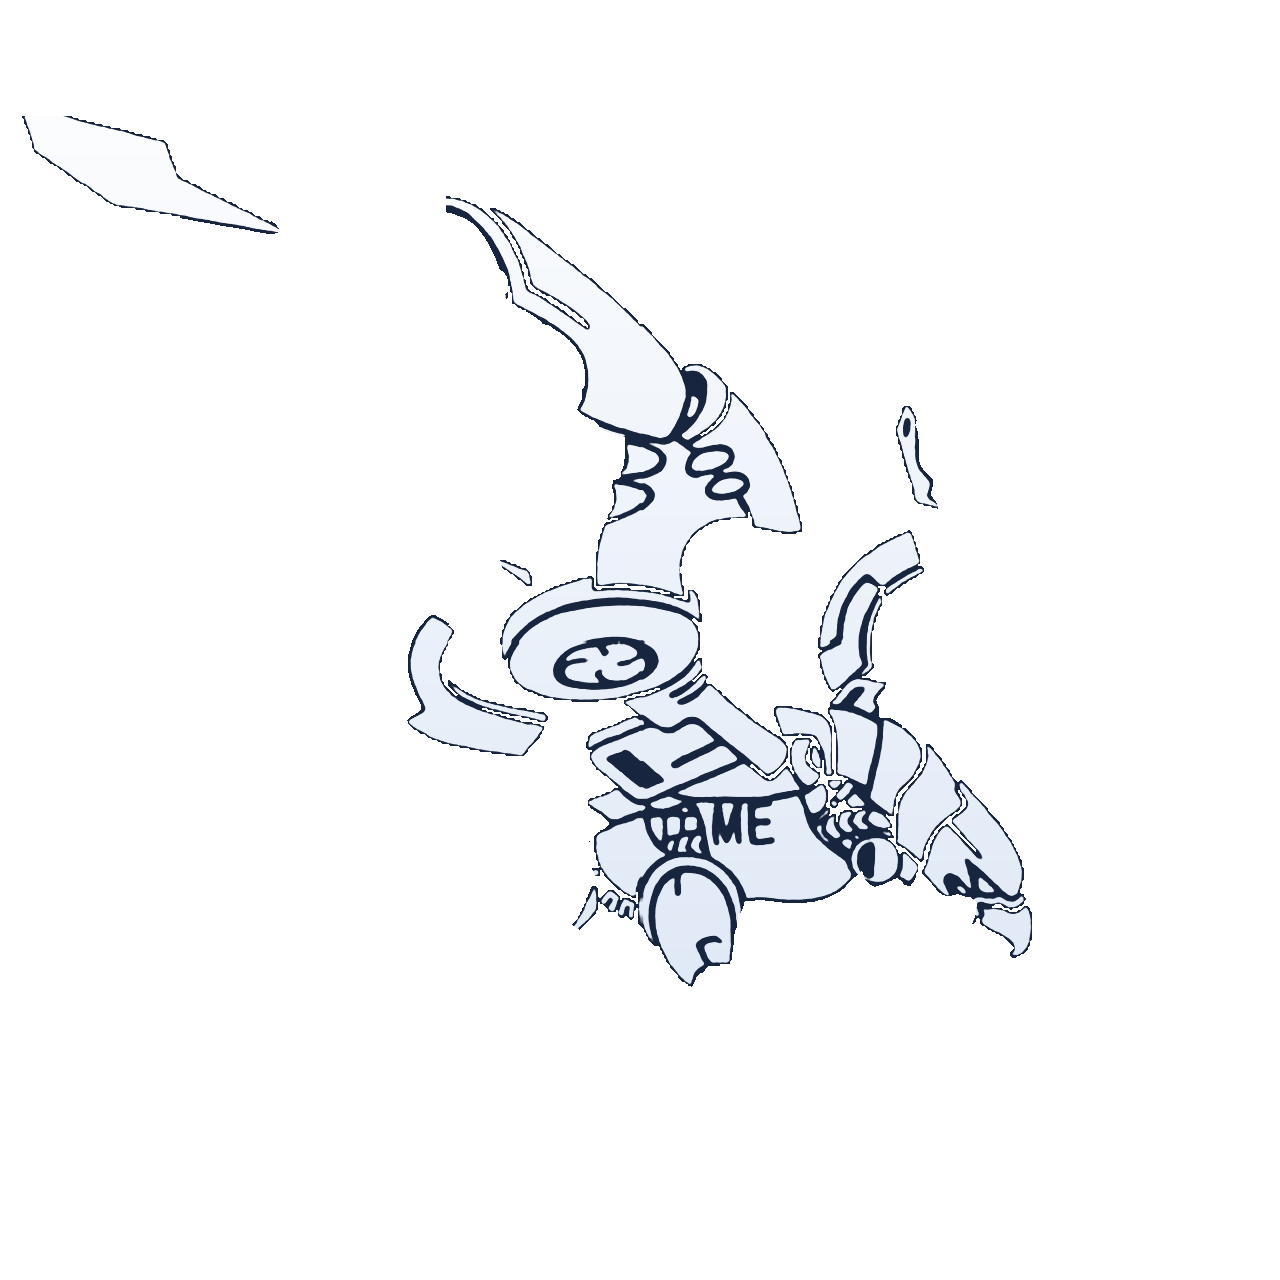
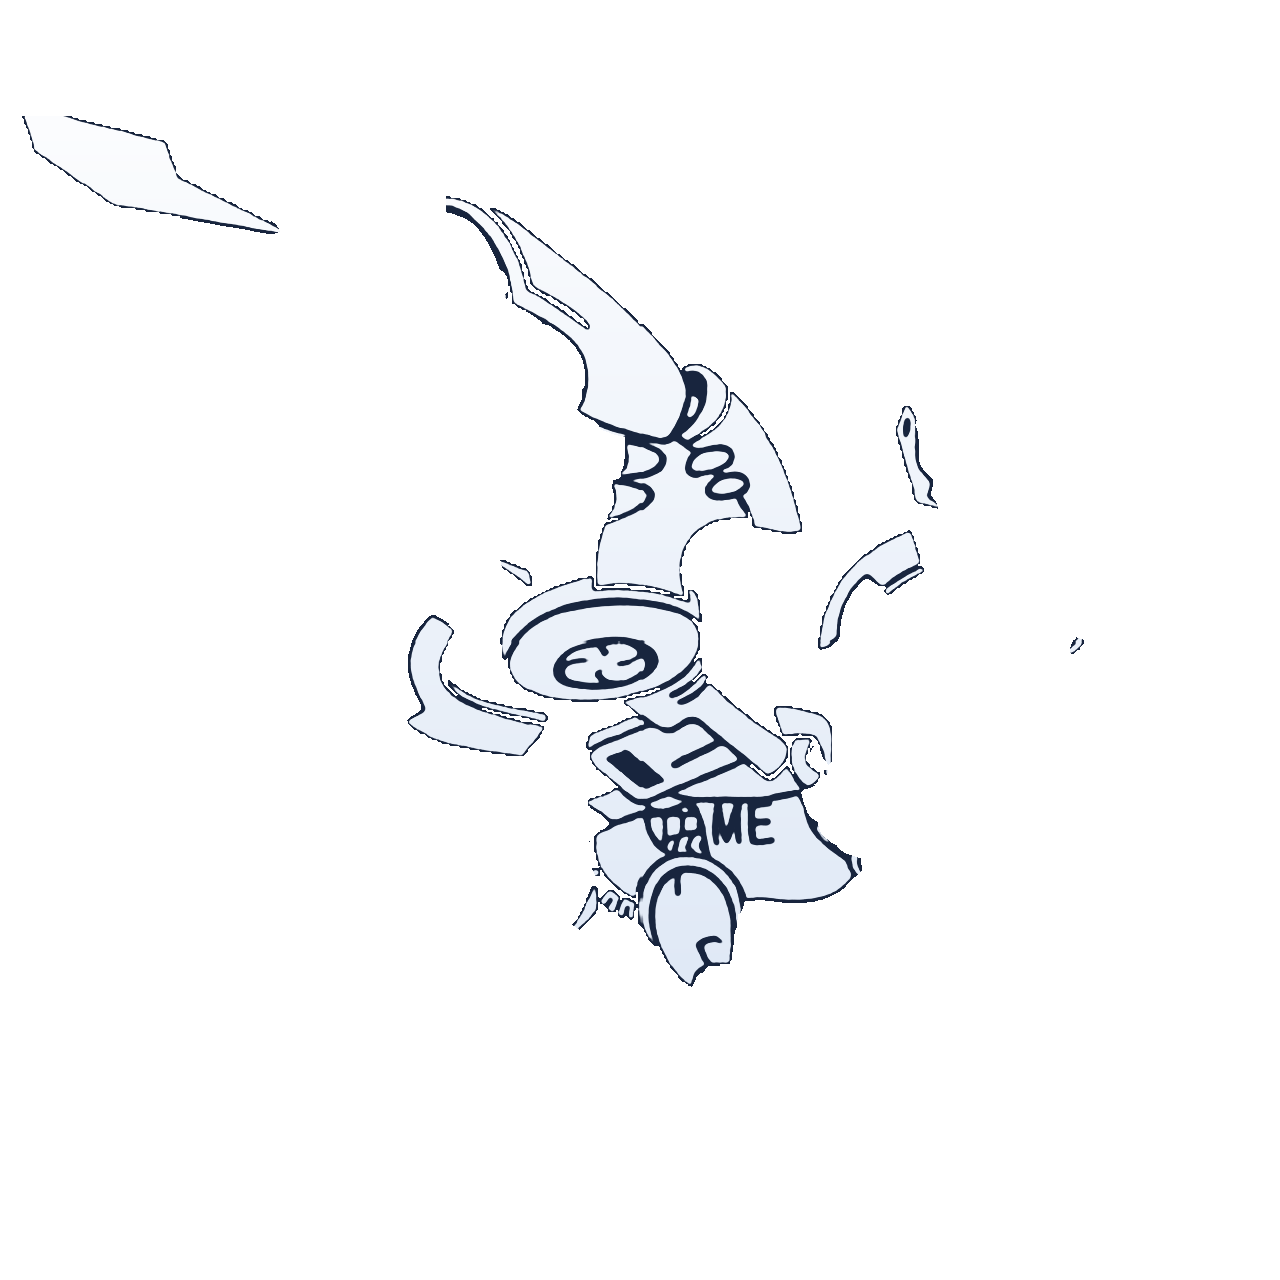
독수리 머리 = 눈+부리로 정정 — 사용자 해부 지정(머리=톱니 부리) 반영
지난 커밋에서 머리를 눈만 잡아 부리 플레이트가 몸통으로 갔던 문제 해결.
머리 폴리곤을 눈+아래 톱니 부리 전체로 넓혀(52k px) 부리를 머리로 재배정,
몸통은 그만큼 축소. HTML 히트영역·화살표(cx/cy)·떠오름 방향도 부리 포함해 갱신.
lw·rw·tail는 기존 정확 → 무변경(head·body·talons PNG 3장만 갱신).

Changed region(s): [[0.625, 0.4375, 0.8125, 0.75]]

diff --git a/design-candidates/G-research.html b/design-candidates/G-research.html
@@ -499,7 +499,7 @@ summary .i-badge::after{content:"▾";margin-left:.35rem;font-size:.85em}
   var PARTS = [
     { cid:'thermal',       png:'lw',     hot:'polygon(43% 19%,33% 12%,16% 14%,4% 23%,2% 41%,14% 48%,27% 51%,38% 48%,45% 39%,48% 28%)', cx:24, cy:33, lift:'translate(-6%,-7%)', lx:16, ly:9,  part:'왼쪽 날개' },
     { cid:'micro',         png:'rw',     hot:'polygon(78% 16%,99% 11%,99% 47%,80% 50%,72% 32%,74% 20%)',                                 cx:87, cy:29, lift:'translate(6%,-6%)',  lx:87, ly:9,  part:'오른쪽 날개' },
-    { cid:'dynamics',      png:'head',   hot:'polygon(70% 46%,84% 44%,90% 50%,89% 57%,82% 61%,73% 59%,68% 52%)',                         cx:79, cy:52, lift:'translate(9%,-2%)',  lx:92, ly:52, part:'머리' },
+    { cid:'dynamics',      png:'head',   hot:'polygon(66% 45%,80% 44%,85% 54%,86% 68%,80% 80%,70% 79%,64% 68%,63% 55%,65% 48%)', cx:77, cy:56, lift:'translate(7%,-4%)',  lx:93, ly:58, part:'머리' },
     { cid:'solid',         png:'body',   hot:'polygon(35% 45%,66% 45%,71% 58%,66% 74%,46% 74%,40% 60%,33% 52%)',                         cx:49, cy:57, lift:'translate(-3%,-5%)', lx:8,  ly:52, part:'몸통' },
     { cid:'manufacturing', png:'tail',   hot:'polygon(50% 58%,30% 60%,12% 66%,18% 80%,30% 88%,46% 76%,52% 64%)',                         cx:29, cy:74, lift:'translate(-7%,7%)',  lx:15, ly:91, part:'꼬리' },
     { cid:'optics',        png:'talons', hot:'polygon(54% 70%,74% 69%,85% 79%,82% 95%,64% 98%,53% 86%)',                                 cx:68, cy:84, lift:'translate(4%,8%)',   lx:86, ly:92, part:'발톱' }
